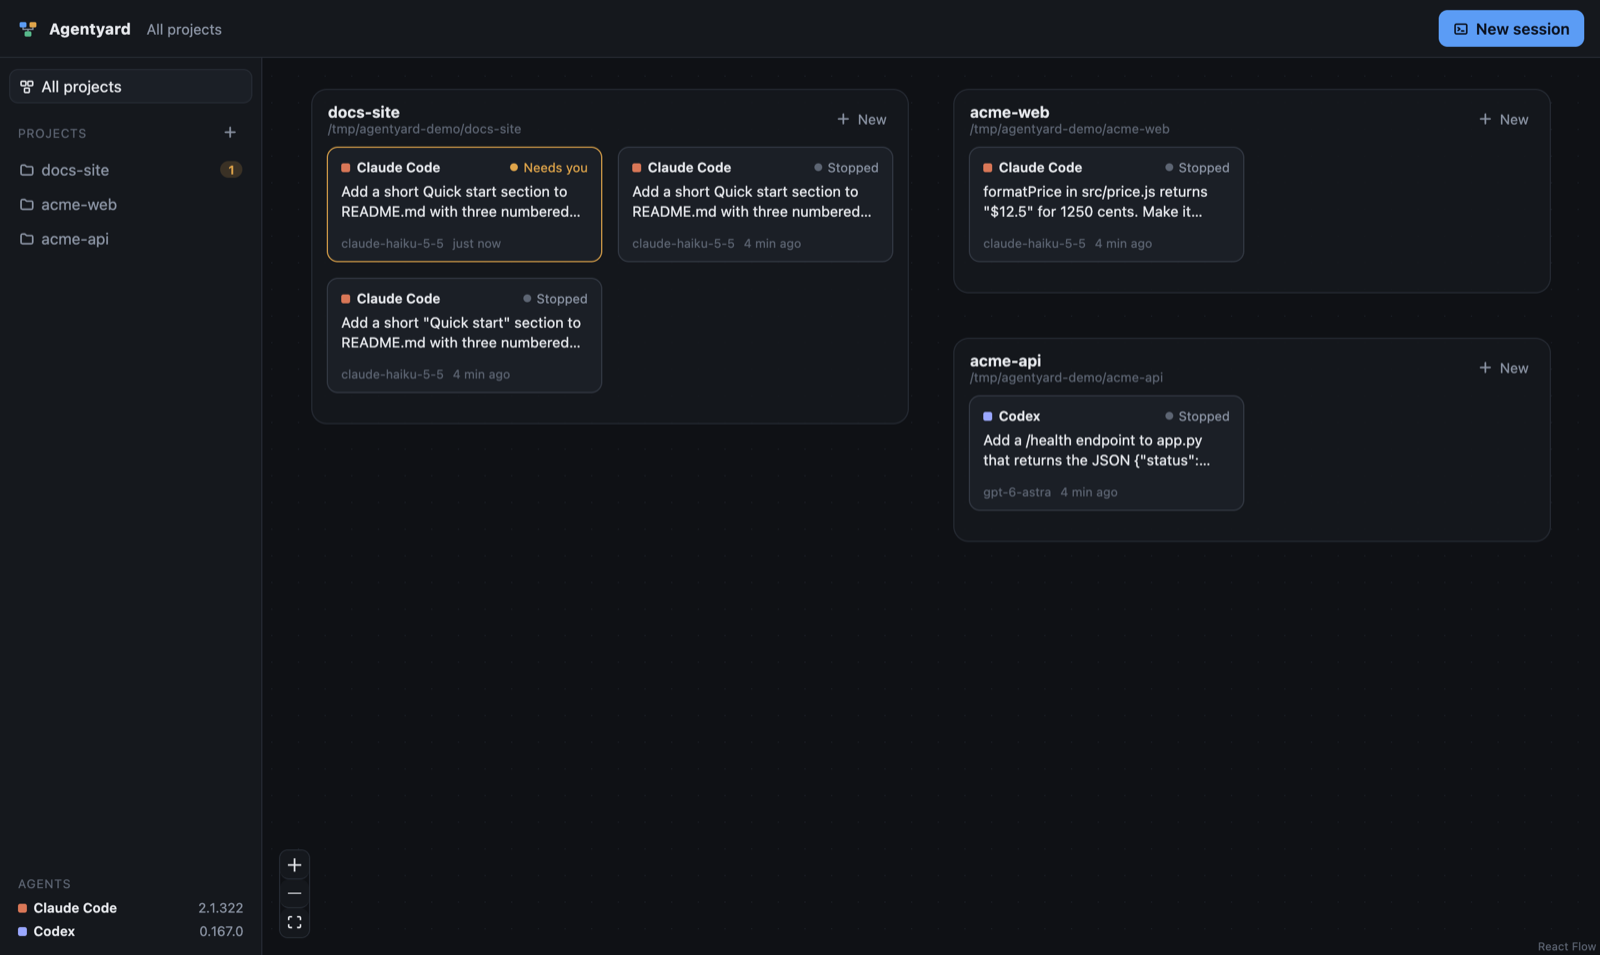
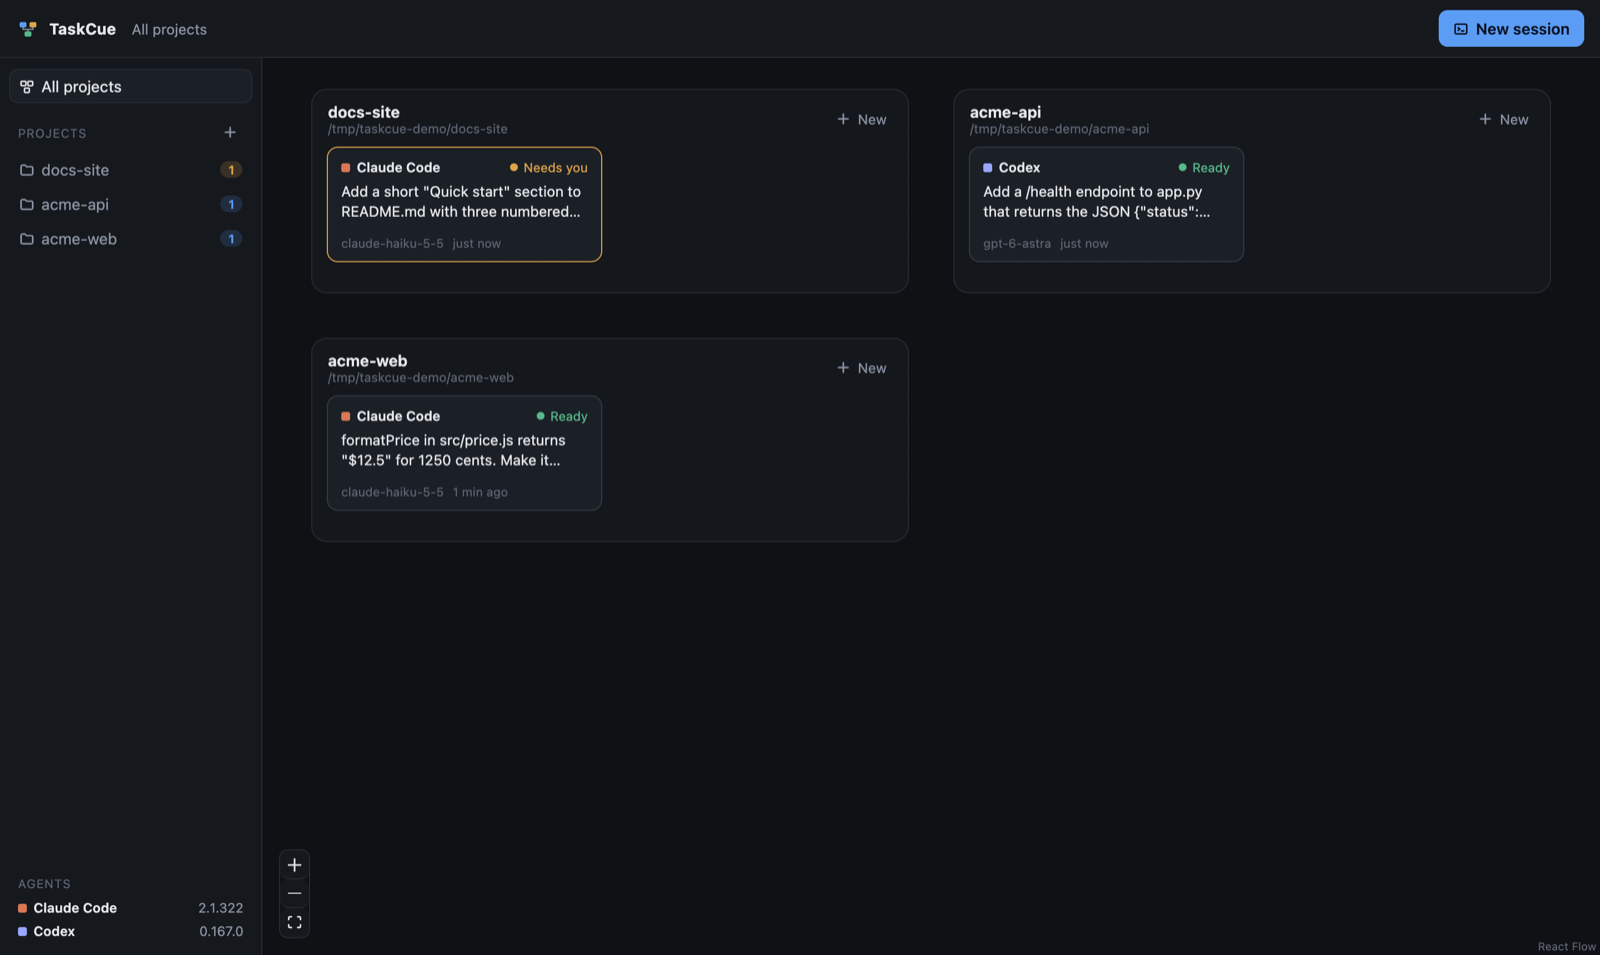
Call it TaskCue
The open-source canvas is named TaskCue. The repository and its folder
are taskcue-canvas, since TaskCue's own app already has `taskcue`; its
state folder is ~/.taskcue-canvas and its settings are TASKCUE_CANVAS_*,
so it never touches TaskCue's own ~/.taskcue or TASKCUE_ variables.
Screenshots retaken.

diff --git a/server/agents/claude/index.ts b/server/agents/claude/index.ts
@@ -1,6 +1,6 @@
 // Claude Code, driven through the installed `claude` binary's own stream-json channel: the same
 // binary, login, settings, CLAUDE.md memory, skills, hooks and MCP servers as a terminal session.
-// Agentyard never modifies the binary, never reads its credentials, and never uses the Agent SDK.
+// TaskCue never modifies the binary, never reads its credentials, and never uses the Agent SDK.
 //
 // Protocol (Claude Code 2.1.x, captured in test/fixtures/claude-stream.jsonl):
 //   stdin:  {type:"user", uuid, message:{role:"user", content:[…]}, …}
@@ -26,7 +26,7 @@ const MODES: Record<PermissionMode, string> = {
 };
 
 export function claudeBinary(): string | null {
-  return findBinary([process.env.AGENTYARD_CLAUDE_BIN, 'claude', join(homedir(), '.claude', 'local', 'claude')]);
+  return findBinary([process.env.TASKCUE_CANVAS_CLAUDE_BIN, 'claude', join(homedir(), '.claude', 'local', 'claude')]);
 }
 
 export function claudeArgs(o: StartOptions & { sessionId: string }): string[] {
@@ -103,7 +103,7 @@ class ClaudeSession implements LiveSession {
     this.approvals.delete(approvalId);
     const response =
       decision === 'deny'
-        ? { behavior: 'deny', message: 'The person declined this in Agentyard.' }
+        ? { behavior: 'deny', message: 'The person declined this in TaskCue.' }
         : {
             behavior: 'allow',
             updatedInput: p.input,
@@ -169,8 +169,8 @@ class ClaudeSession implements LiveSession {
   private onControlRequest(m: any): void {
     const r = m.request ?? {};
     if (r.subtype !== 'can_use_tool') {
-      // Hook callbacks, SDK MCP servers and elicitations are host features Agentyard does not provide.
-      this.write({ type: 'control_response', response: { subtype: 'error', request_id: m.request_id, error: `Agentyard does not handle ${r.subtype}` } });
+      // Hook callbacks, SDK MCP servers and elicitations are host features TaskCue does not provide.
+      this.write({ type: 'control_response', response: { subtype: 'error', request_id: m.request_id, error: `TaskCue does not handle ${r.subtype}` } });
       return;
     }
     const suggestions = Array.isArray(r.permission_suggestions) ? r.permission_suggestions : [];

diff --git a/server/sessions.ts b/server/sessions.ts
@@ -1,6 +1,6 @@
-// The sessions on the board: the ones Agentyard started (kept in sessions.json), and the recent
+// The sessions on the board: the ones TaskCue started (kept in sessions.json), and the recent
 // ones each agent keeps in its own history (found, not copied). An agent's own history is the
-// record of a conversation; Agentyard only keeps what it needs to draw the board.
+// record of a conversation; TaskCue only keeps what it needs to draw the board.
 
 import { randomUUID } from 'node:crypto';
 import { existsSync } from 'node:fs';
@@ -75,11 +75,11 @@ export class Sessions extends EventEmitter {
 
   /**
    * Reads each agent's recent history. Called at start and every half minute. Skipped with
-   * AGENTYARD_HISTORY=0. Sessions that ran inside a hidden folder (a path segment starting with
+   * TASKCUE_CANVAS_HISTORY=0. Sessions that ran inside a hidden folder (a path segment starting with
    * '.', where tools keep their own working copies) only show when that folder is an added project.
    */
   async refreshExternal(added: string[] = []): Promise<void> {
-    if (process.env.AGENTYARD_HISTORY === '0') return;
+    if (process.env.TASKCUE_CANVAS_HISTORY === '0') return;
     const found = new Map<string, SessionSummary>();
     for (const a of Object.values(adapters)) {
       let recent: Awaited<ReturnType<typeof a.recent>> = [];
@@ -225,7 +225,7 @@ export class Sessions extends EventEmitter {
     await live.send(text);
   }
 
-  /** Brings a conversation found in an agent's history onto Agentyard's own list, to continue it here. */
+  /** Brings a conversation found in an agent's history onto TaskCue's own list, to continue it here. */
   private adopt(id: string): void {
     const s = this.external.get(id);
     if (!s) throw new Error('No such session');

diff --git a/shared/types.ts b/shared/types.ts
@@ -1,7 +1,7 @@
 // What the server and the page share. The page never sees an agent's own wire format: each adapter
 // (server/agents/<agent>/) translates its agent's events into these types, and nothing else.
 
-/** An agent Agentyard can drive. New agents add an id here and an adapter in server/agents/. */
+/** An agent TaskCue can drive. New agents add an id here and an adapter in server/agents/. */
 export type AgentId = 'claude' | 'codex';
 
 /** How much a session may do without asking. Each adapter maps these onto its agent's own settings. */
@@ -16,7 +16,7 @@ export const PERMISSION_MODES: { id: PermissionMode; label: string; hint: string
 export interface AgentInfo {
   id: AgentId;
   name: string;
-  /** The binary Agentyard found, or null when the agent isn't installed. */
+  /** The binary TaskCue found, or null when the agent isn't installed. */
   path: string | null;
   version: string | null;
   /** Where to get it when it isn't installed. */
@@ -25,7 +25,7 @@ export interface AgentInfo {
   models: { id: string; label: string }[];
 }
 
-/** One entry in a session's conversation, already in Agentyard's own shape. */
+/** One entry in a session's conversation, already in TaskCue's own shape. */
 export type Item =
   | { id: string; kind: 'user'; text: string; at?: number }
   | { id: string; kind: 'assistant'; text: string; at?: number }
@@ -70,7 +70,7 @@ export interface SessionSummary {
   model: string | null;
   permission: PermissionMode;
   state: SessionState;
-  /** True while Agentyard runs the agent for it; false for history only. */
+  /** True while TaskCue runs the agent for it; false for history only. */
   live: boolean;
   createdAt: number;
   updatedAt: number;

diff --git a/server/config.ts b/server/config.ts
@@ -1,14 +1,14 @@
-// Agentyard's own state: a folder of small JSON files, never shared with the agents.
-//   AGENTYARD_DATA_DIR (default ~/.agentyard): settings.json, sessions.json, token
-//   AGENTYARD_PORT (default 4880)
+// TaskCue's own state: a folder of small JSON files, never shared with the agents.
+//   TASKCUE_CANVAS_DATA_DIR (default ~/.taskcue-canvas): settings.json, sessions.json, token
+//   TASKCUE_CANVAS_PORT (default 4880)
 
 import { randomBytes } from 'node:crypto';
 import { chmodSync, existsSync, mkdirSync, readFileSync, renameSync, writeFileSync } from 'node:fs';
 import { homedir } from 'node:os';
 import { join } from 'node:path';
 
-export const dataDir = process.env.AGENTYARD_DATA_DIR || join(homedir(), '.agentyard');
-export const port = Number(process.env.AGENTYARD_PORT || 4880);
+export const dataDir = process.env.TASKCUE_CANVAS_DATA_DIR || join(homedir(), '.taskcue-canvas');
+export const port = Number(process.env.TASKCUE_CANVAS_PORT || 4880);
 
 mkdirSync(dataDir, { recursive: true, mode: 0o700 });
 
@@ -29,7 +29,7 @@ export function writeJson(name: string, value: unknown): void {
 }
 
 /**
- * The secret every API call carries. Agentyard can run agents that run shell commands, so other
+ * The secret every API call carries. TaskCue can run agents that run shell commands, so other
  * programs and web pages on this computer must not be able to drive it: the guard checks this
  * token on top of the Host, Origin and Fetch-Metadata checks (server/guard.ts).
  */

diff --git a/server/guard.ts b/server/guard.ts
@@ -1,4 +1,4 @@
-// Who may call the API. Agentyard drives agents that edit files and run commands, so its API is
+// Who may call the API. TaskCue drives agents that edit files and run commands, so its API is
 // treated like a shell: only this computer's own browser tab, holding the token, may use it.
 //
 //   - The server listens on 127.0.0.1 only.
@@ -6,7 +6,7 @@
 //   - Origin, when sent, must be this server (stops other websites).
 //   - Sec-Fetch-Site, when sent, must be same-origin or none (stops <img>/<form> requests from other sites).
 //   - Writes must be JSON (forces a CORS preflight no other site can pass).
-//   - Every /api call carries the token from ~/.agentyard/token (stops other programs and users on this computer).
+//   - Every /api call carries the token from ~/.taskcue-canvas/token (stops other programs and users on this computer).
 
 import { timingSafeEqual } from 'node:crypto';
 import type { IncomingMessage } from 'node:http';
@@ -41,7 +41,7 @@ export function refuse(req: IncomingMessage, o: GuardOptions): string | null {
   }
 
   const url = new URL(req.url ?? '/', `http://${host}`);
-  const given = String(req.headers['x-agentyard-token'] ?? url.searchParams.get('token') ?? '');
+  const given = String(req.headers['x-taskcue-token'] ?? url.searchParams.get('token') ?? '');
   if (!given || !sameToken(given, o.token)) return 'Missing or wrong token';
   return null;
 }

diff --git a/server/agents/types.ts b/server/agents/types.ts
@@ -1,4 +1,4 @@
-// The one interface between Agentyard and an agent. Everything an agent knows about its own
+// The one interface between TaskCue and an agent. Everything an agent knows about its own
 // binary, protocol and history files lives behind it (server/agents/<agent>/); the rest of the
 // server and the page only see shared/types.ts. docs/adding-an-agent.md walks through a new one.
 
@@ -12,7 +12,7 @@ export interface StartOptions {
   resumeId?: string | null;
 }
 
-/** What an adapter's live session reports. Agentyard keeps state and fans it out to the page. */
+/** What an adapter's live session reports. TaskCue keeps state and fans it out to the page. */
 export interface SessionSink {
   /** A new or updated item. An item with an id already shown replaces it (a tool's result arriving). */
   item(item: Item): void;
@@ -24,7 +24,7 @@ export interface SessionSink {
   model(model: string): void;
   /** Busy with a turn, or done with it. */
   working(busy: boolean): void;
-  /** The agent asks before acting. Agentyard calls back `answer` with the same id. */
+  /** The agent asks before acting. TaskCue calls back `answer` with the same id. */
   approval(a: { id: string; title: string; detail: string; canAllowForSession: boolean }): void;
   /** An approval the agent withdrew or that was answered elsewhere. */
   approvalGone(id: string): void;

diff --git a/test/codex.test.ts b/test/codex.test.ts
@@ -16,7 +16,7 @@ const out = lines.filter((e) => e.dir === 'out').map((e) => e.msg);
 const CWD = '/tmp/ay-cap-codex';
 
 describe('codexItem', () => {
-  it('turns each completed item into Agentyard’s own', () => {
+  it('turns each completed item into TaskCue’s own', () => {
     const items = out.filter((m) => m.method === 'item/completed').map((m) => codexItem(m.params.item, CWD)).filter(Boolean) as Item[];
     expect(items.map((i) => i.kind)).toEqual(['user', 'assistant', 'tool', 'tool', 'assistant']);
     expect(items[2]).toMatchObject({ name: 'Edit', summary: 'hello.txt', status: 'done' });
@@ -46,12 +46,12 @@ describe('bareCommand', () => {
 
 describe('a live session, replayed', () => {
   afterEach(() => {
-    delete process.env.AGENTYARD_CODEX_BIN;
+    delete process.env.TASKCUE_CANVAS_CODEX_BIN;
     delete process.env.REPLAY_FIXTURE;
   });
 
   it('starts a thread, streams the turn, and raises both approvals', async () => {
-    process.env.AGENTYARD_CODEX_BIN = join(here, 'fake', 'replay.mjs');
+    process.env.TASKCUE_CANVAS_CODEX_BIN = join(here, 'fake', 'replay.mjs');
     process.env.REPLAY_FIXTURE = FIXTURE;
     mkdirSync(CWD, { recursive: true });
     const items = new Map<string, Item>();

diff --git a/test/claude.test.ts b/test/claude.test.ts
@@ -36,7 +36,7 @@ describe('ClaudeNormalizer', () => {
 });
 
 describe('transcripts', () => {
-  const config = mkdtempSync(join(tmpdir(), 'agentyard-claude-'));
+  const config = mkdtempSync(join(tmpdir(), 'taskcue-canvas-claude-'));
   process.env.CLAUDE_CONFIG_DIR = config;
   mkdirSync(join(config, 'projects', folderSlug(CWD)), { recursive: true });
   copyFileSync(fixture('claude-transcript.jsonl'), join(config, 'projects', folderSlug(CWD), `${SESSION}.jsonl`));
@@ -84,12 +84,12 @@ describe('claudeArgs', () => {
 
 describe('a live session, replayed', () => {
   afterEach(() => {
-    delete process.env.AGENTYARD_CLAUDE_BIN;
+    delete process.env.TASKCUE_CANVAS_CLAUDE_BIN;
     delete process.env.REPLAY_FIXTURE;
   });
 
   it('streams the turn, raises the approval, and finishes once it is answered', async () => {
-    process.env.AGENTYARD_CLAUDE_BIN = join(here, 'fake', 'replay.mjs');
+    process.env.TASKCUE_CANVAS_CLAUDE_BIN = join(here, 'fake', 'replay.mjs');
     process.env.REPLAY_FIXTURE = fixture('claude-stream.jsonl');
     // The capture ran in /private/tmp/ay-cap-claude (macOS's name for /tmp); this folder exists on any machine.
     const liveCwd = '/tmp/ay-cap-claude';

diff --git a/test/guard.test.ts b/test/guard.test.ts
@@ -5,7 +5,7 @@ import { refuse } from '../server/guard.ts';
 const o = { port: 4880, token: 'a'.repeat(48) };
 
 function req(headers: Record<string, string>, method = 'GET', url = '/api/agents'): IncomingMessage {
-  return { headers: { host: '127.0.0.1:4880', 'x-agentyard-token': o.token, ...headers }, method, url } as unknown as IncomingMessage;
+  return { headers: { host: '127.0.0.1:4880', 'x-taskcue-token': o.token, ...headers }, method, url } as unknown as IncomingMessage;
 }
 
 describe('guard', () => {
@@ -29,8 +29,8 @@ describe('guard', () => {
   });
 
   it('refuses a missing or wrong token', () => {
-    expect(refuse(req({ 'x-agentyard-token': '' }), o)).toMatch(/token/);
-    expect(refuse(req({ 'x-agentyard-token': 'b'.repeat(48) }), o)).toMatch(/token/);
+    expect(refuse(req({ 'x-taskcue-token': '' }), o)).toMatch(/token/);
+    expect(refuse(req({ 'x-taskcue-token': 'b'.repeat(48) }), o)).toMatch(/token/);
     expect(refuse({ ...req({}), headers: { host: '127.0.0.1:4880' }, url: `/api/events?token=${o.token}` } as unknown as IncomingMessage, o)).toBeNull();
   });
 });

diff --git a/src/App.tsx b/src/App.tsx
@@ -10,11 +10,11 @@ import { apply, loadAgents, setConnected, useStore } from './store.ts';
 function NoToken() {
   return (
     <div className="gate">
-      <h1>Agentyard</h1>
-      <p>Open Agentyard from the address it printed when it started, the one that ends in <code>#token=…</code>.</p>
+      <h1>TaskCue</h1>
+      <p>Open TaskCue from the address it printed when it started, the one that ends in <code>#token=…</code>.</p>
       <p className="muted">
         The token keeps other websites and programs on this computer from driving your agents. It is in
-        <code> ~/.agentyard/token</code>.
+        <code> ~/.taskcue-canvas/token</code>.
       </p>
     </div>
   );
@@ -133,7 +133,7 @@ export function App() {
       <header className="topbar">
         <div className="brand">
           <img src="/icon.svg" alt="" width={22} height={22} />
-          Agentyard
+          TaskCue
         </div>
         <div className="crumb">{focused ? shortPath(focused.path) : 'All projects'}</div>
         <span className="spacer" />

diff --git a/server/agents/process.ts b/server/agents/process.ts
@@ -7,7 +7,7 @@ import { delimiter, join } from 'node:path';
 import type { Readable } from 'node:stream';
 
 /**
- * Variables a parent agent session sets for its own children. When Agentyard is started from
+ * Variables a parent agent session sets for its own children. When TaskCue is started from
  * inside a Claude Code session (a terminal tab, an editor panel, a tool call), passing them on
  * would make every session it starts believe it is a child of that one.
  */
@@ -29,9 +29,9 @@ const PARENT_SESSION_VARS = [
   'CODEX_SANDBOX_NETWORK_DISABLED',
 ];
 
-/** Agentyard's own settings, which belong to Agentyard and not to the projects its sessions work in. */
+/** TaskCue's own settings, which belong to TaskCue and not to the projects its sessions work in. */
 const OWN_VARS = ['PORT', 'NODE_ENV', 'ELECTRON_RUN_AS_NODE'];
-const OWN_PREFIX = 'AGENTYARD_';
+const OWN_PREFIX = 'TASKCUE_CANVAS_';
 
 export function childEnv(base: NodeJS.ProcessEnv = process.env): NodeJS.ProcessEnv {
   const env = { ...base };

diff --git a/server/agents/codex/rpc.ts b/server/agents/codex/rpc.ts
@@ -57,7 +57,7 @@ export class CodexRpc {
 
   /** The handshake every client makes before anything else. */
   async initialize(version: string): Promise<void> {
-    await this.request('initialize', { clientInfo: { name: 'agentyard', title: 'Agentyard', version }, capabilities: null });
+    await this.request('initialize', { clientInfo: { name: 'taskcue-canvas', title: 'TaskCue', version }, capabilities: null });
     this.notify('initialized');
   }
 
@@ -81,7 +81,7 @@ export class CodexRpc {
     if (m.id !== undefined && m.method) {
       try {
         const result = await this.handlers.request?.(m.method, m.params, m.id);
-        if (result === undefined) throw new Error(`Agentyard does not handle ${m.method}`);
+        if (result === undefined) throw new Error(`TaskCue does not handle ${m.method}`);
         this.write({ id: m.id, result });
       } catch (err) {
         this.write({ id: m.id, error: { code: -32601, message: (err as Error).message } });
